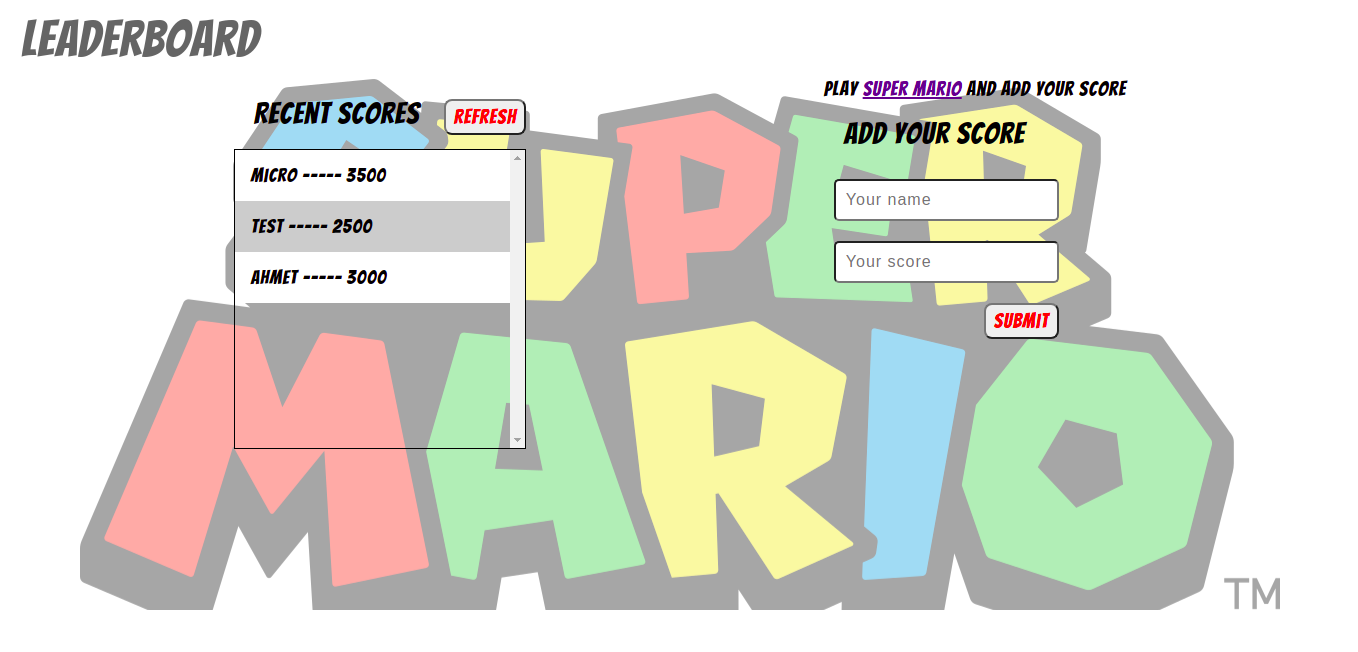
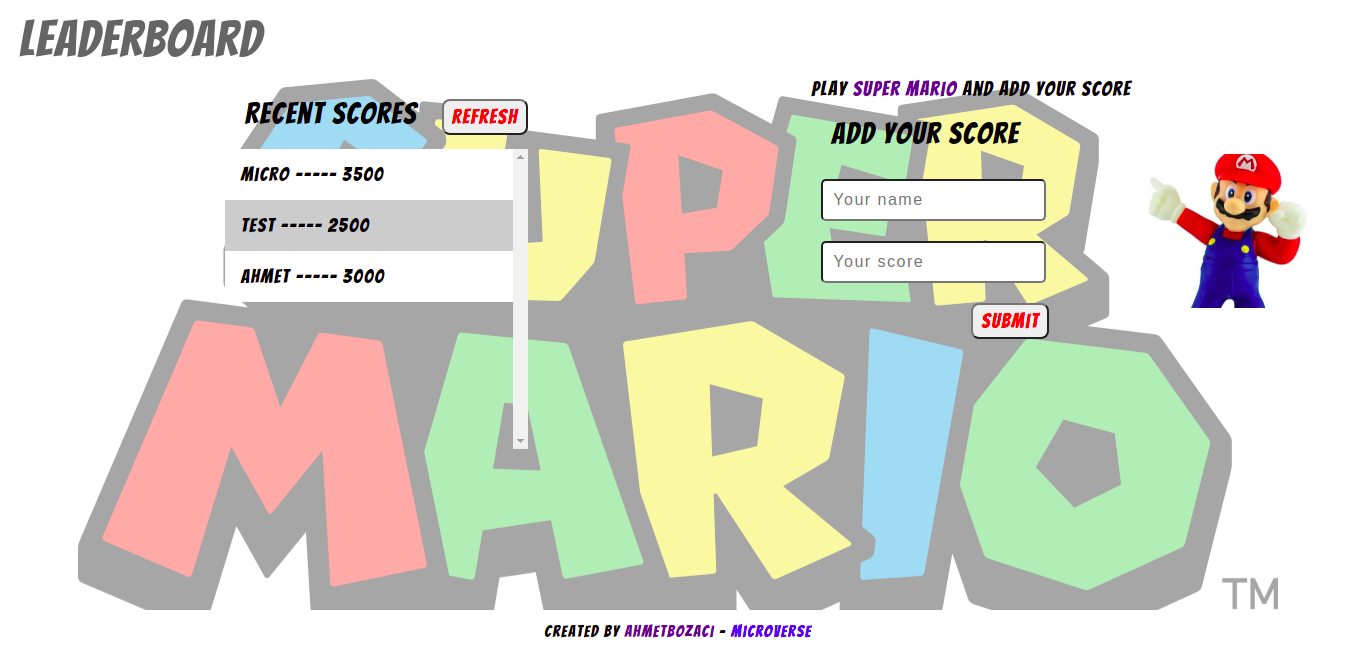
Add background image and style it

diff --git a/src/scss/style.scss b/src/scss/style.scss
@@ -14,6 +14,10 @@
   height: 80vh;
   width: 100%;
   font-family: 'bangers';
+  background-image: url('/mario.jpg');
+  background-repeat: no-repeat;
+  background-size: 20%;
+  background-position: 100% 35%;
 }
 
 .container::before {
@@ -45,7 +49,6 @@ h1 {
 .leader-board {
   overflow-y: scroll;
   height: 300px;
-  border: 1px solid black;
   position: relative;
 }
 
@@ -92,6 +95,7 @@ footer {
   text-align: center;
   margin: 175px;
 }
+
 a {
   text-decoration-line: none;
 }

diff --git a/src/scss/style.css b/src/scss/style.css
@@ -65,6 +65,10 @@ input {
   height: 80vh;
   width: 100%;
   font-family: 'bangers';
+  background-image: url("/mario.jpg");
+  background-repeat: no-repeat;
+  background-size: 20%;
+  background-position: 100% 35%;
 }
 
 .container::before {
@@ -96,7 +100,6 @@ h1 {
 .leader-board {
   overflow-y: scroll;
   height: 300px;
-  border: 1px solid black;
   position: relative;
 }
 
